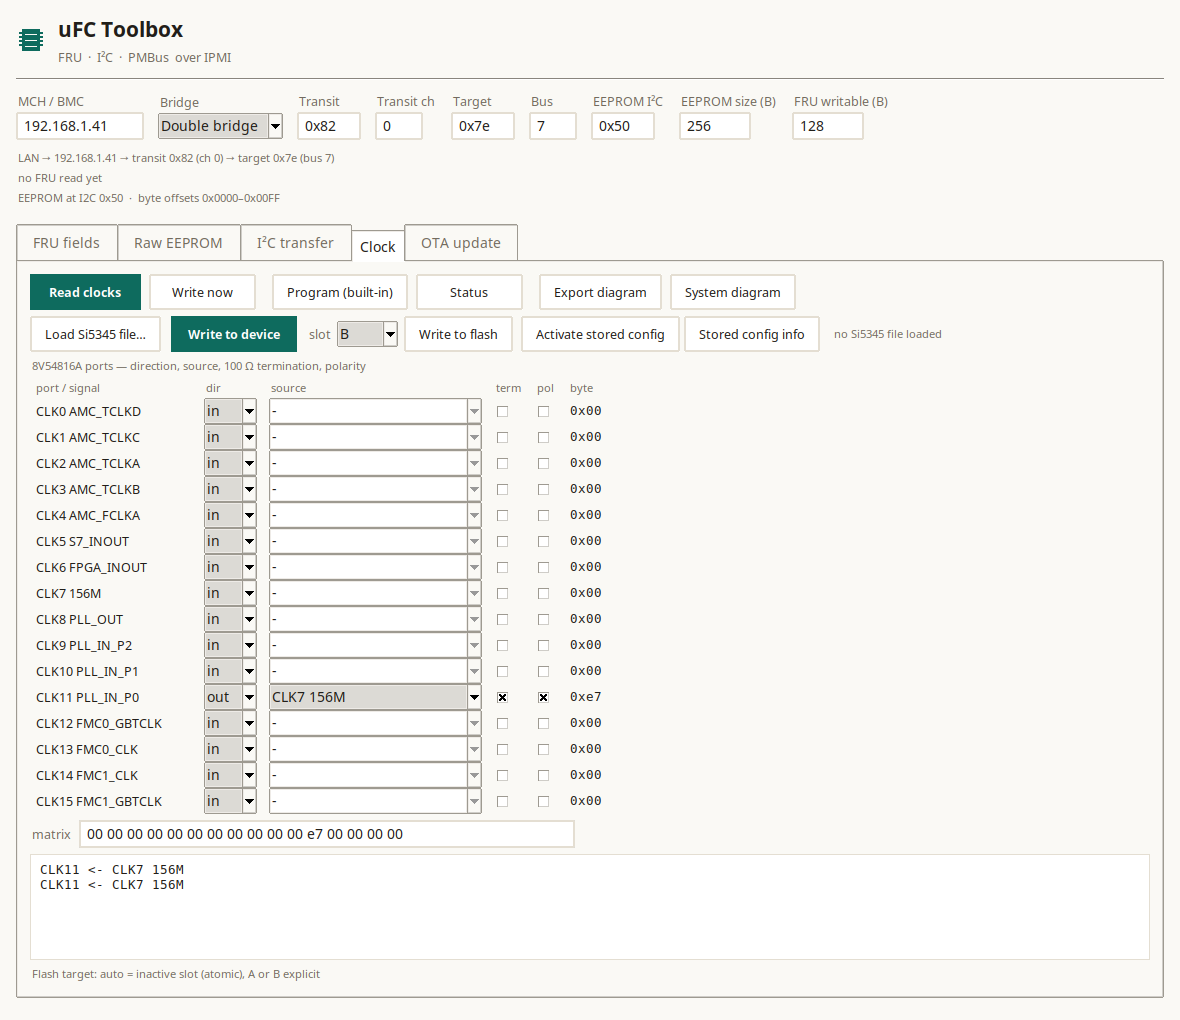
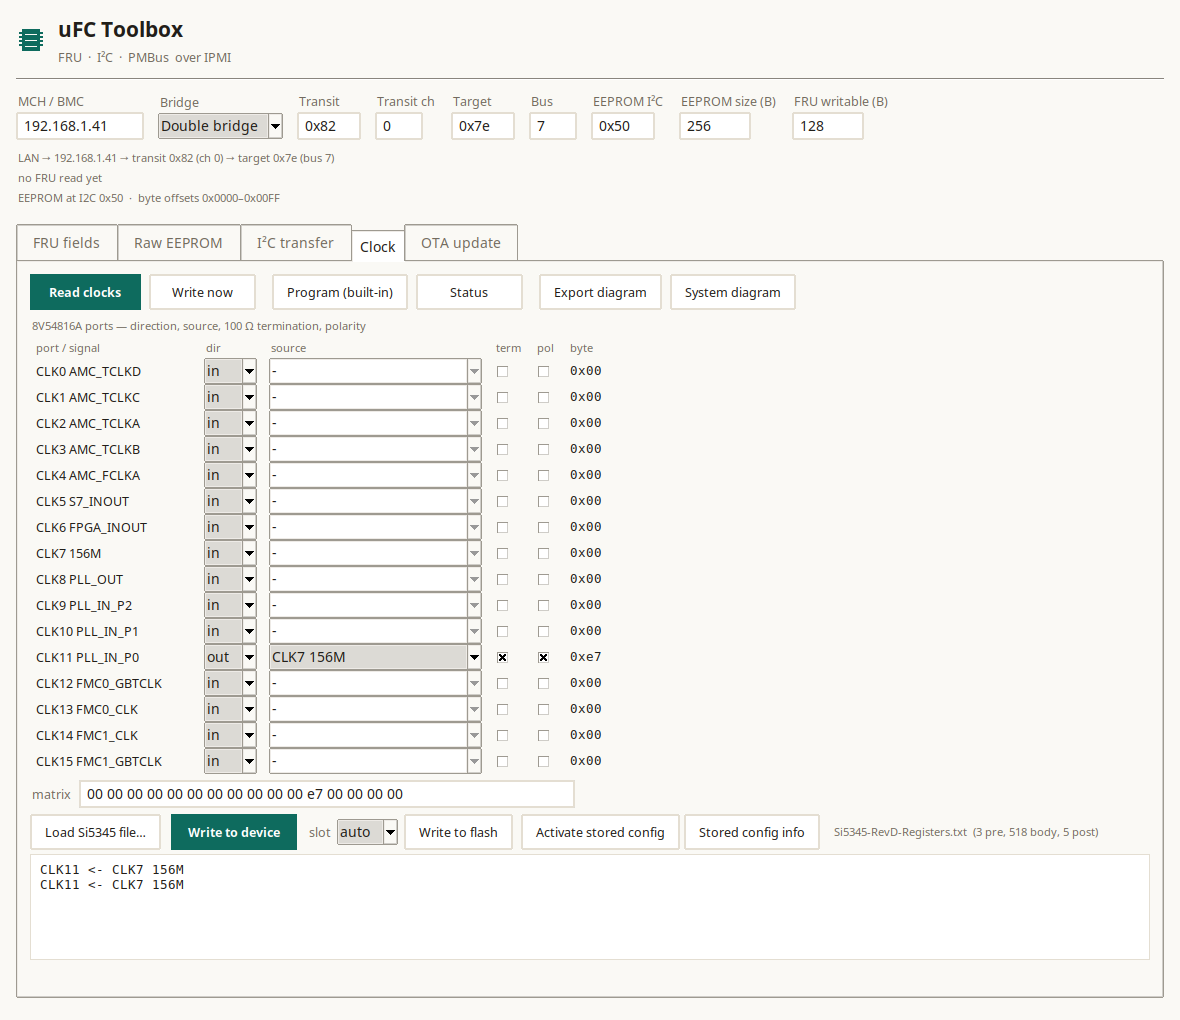
toolbox: move the Si5345/PLL row below the mux configuration
Layout is now: switch actions (top row), 8V54816A port table, matrix
line, then the PLL row (Load Si5345 file, Write to device, slot, Write to
flash, Activate stored config, Stored config info), then the log and the
hover hint line. README and screenshot updated; binary rebuilt.

Changed region(s): [[0.0305, 0.3039, 0.9153, 0.851], [0.0305, 0.9422, 0.2746, 0.9725]]

diff --git a/tools/uFC_toolbox/fru_gui_tk.py b/tools/uFC_toolbox/fru_gui_tk.py
@@ -341,35 +341,6 @@ class FruEditor(tk.Tk):
         ttk.Button(row, text="Export diagram", command=self.clock_export_dot).pack(side="left", padx=(16, 0))
         ttk.Button(row, text="System diagram", command=self.clock_show_system).pack(side="left", padx=(8, 0))
 
-        row2 = ttk.Frame(parent)
-        row2.pack(fill="x", pady=(0, 4))
-        ttk.Button(row2, text="Load Si5345 file…", command=self.si_load).pack(side="left")
-        dev = ttk.Button(row2, text="Write to device", style="Primary.TButton",
-                         command=self.si_write_device)
-        dev.pack(side="left", padx=(10, 0))
-        self._hint(dev, "Write the loaded table to the Si5345 RAM over I2C - "
-                        "immediate, lost on power-cycle")
-        ttk.Label(row2, text="slot", style="FieldLabel.TLabel").pack(side="left", padx=(10, 4))
-        self.slot_sel = tk.StringVar(value="auto")
-        slotsel = ttk.Combobox(row2, textvariable=self.slot_sel, values=("auto", "A", "B"),
-                               width=5, state="readonly")
-        slotsel.pack(side="left")
-        self._hint(slotsel, "Flash target: auto = inactive slot (atomic), A or B explicit")
-        fl = ttk.Button(row2, text="Write to flash", command=self.si_write_flash)
-        fl.pack(side="left", padx=(6, 0))
-        self._hint(fl, "Store matrix + Si5345 table in the MMC clock store - "
-                       "applied automatically at the next power-on")
-        applyb = ttk.Button(row2, text="Activate stored config", command=self.store_apply)
-        applyb.pack(side="left", padx=(8, 0))
-        self._hint(applyb, "Read the stored slot from flash and activate it now "
-                           "(switch matrix + Si5345) without power-cycling")
-        infob = ttk.Button(row2, text="Stored config info", command=self.store_status)
-        infob.pack(side="left", padx=(4, 0))
-        self._hint(infob, "Show the active slot, length and CRC of the stored configuration")
-        self.si_label = tk.StringVar(value="no Si5345 file loaded")
-        ttk.Label(row2, textvariable=self.si_label, style="Hint.TLabel").pack(side="left", padx=(12, 0))
-        self.si_groups = None
-
         tbl = ttk.Frame(parent)
         tbl.pack(fill="both", expand=True, pady=(0, 6))
         ttk.Label(tbl, text="8V54816A ports — direction, source, 100 Ω termination, polarity",
@@ -433,6 +404,35 @@ class FruEditor(tk.Tk):
         self.switch_var = tk.StringVar(value="")
         ttk.Entry(srow, textvariable=self.switch_var, width=60, state="readonly").pack(side="left", padx=(6, 10))
         self._port_load_all()
+
+        row2 = ttk.Frame(parent)
+        row2.pack(fill="x", pady=(0, 4))
+        ttk.Button(row2, text="Load Si5345 file…", command=self.si_load).pack(side="left")
+        dev = ttk.Button(row2, text="Write to device", style="Primary.TButton",
+                         command=self.si_write_device)
+        dev.pack(side="left", padx=(10, 0))
+        self._hint(dev, "Write the loaded table to the Si5345 RAM over I2C - "
+                        "immediate, lost on power-cycle")
+        ttk.Label(row2, text="slot", style="FieldLabel.TLabel").pack(side="left", padx=(10, 4))
+        self.slot_sel = tk.StringVar(value="auto")
+        slotsel = ttk.Combobox(row2, textvariable=self.slot_sel, values=("auto", "A", "B"),
+                               width=5, state="readonly")
+        slotsel.pack(side="left")
+        self._hint(slotsel, "Flash target: auto = inactive slot (atomic), A or B explicit")
+        fl = ttk.Button(row2, text="Write to flash", command=self.si_write_flash)
+        fl.pack(side="left", padx=(6, 0))
+        self._hint(fl, "Store matrix + Si5345 table in the MMC clock store - "
+                       "applied automatically at the next power-on")
+        applyb = ttk.Button(row2, text="Activate stored config", command=self.store_apply)
+        applyb.pack(side="left", padx=(8, 0))
+        self._hint(applyb, "Read the stored slot from flash and activate it now "
+                           "(switch matrix + Si5345) without power-cycling")
+        infob = ttk.Button(row2, text="Stored config info", command=self.store_status)
+        infob.pack(side="left", padx=(4, 0))
+        self._hint(infob, "Show the active slot, length and CRC of the stored configuration")
+        self.si_label = tk.StringVar(value="no Si5345 file loaded")
+        ttk.Label(row2, textvariable=self.si_label, style="Hint.TLabel").pack(side="left", padx=(12, 0))
+        self.si_groups = None
 
         self.clock_out = tk.Text(parent, height=6, font=(MONO_FONT, 9), state="disabled",
                                  bg=PANEL, fg=INK, relief="flat", highlightthickness=1,

diff --git a/tools/uFC_toolbox/README.md b/tools/uFC_toolbox/README.md
@@ -132,6 +132,12 @@ Presets: **EEPROM FRU** (0x70 ch0, 0x50, read 8), **UCD PMBus** (0x70 ch0,
 
 ## Clock tab
 
+Layout: the 8V54816A switch actions are on top (Read clocks, Write now,
+Program (built-in), Status, Export diagram, System diagram), then the port
+table and the matrix line, and **below them the Si5345/PLL row** (Load
+Si5345 file, Write to device, slot, Write to flash, Activate stored config,
+Stored config info), followed by the log and the hover hint line.
+
 The 8V54816A is configured port by port in a table: **direction** (in/out),
 **source** (CLK0…CLK8 for outputs), **100 Ω termination**, **non-inverted**
 polarity and the resulting **matrix byte** for each of the 16 ports. The
